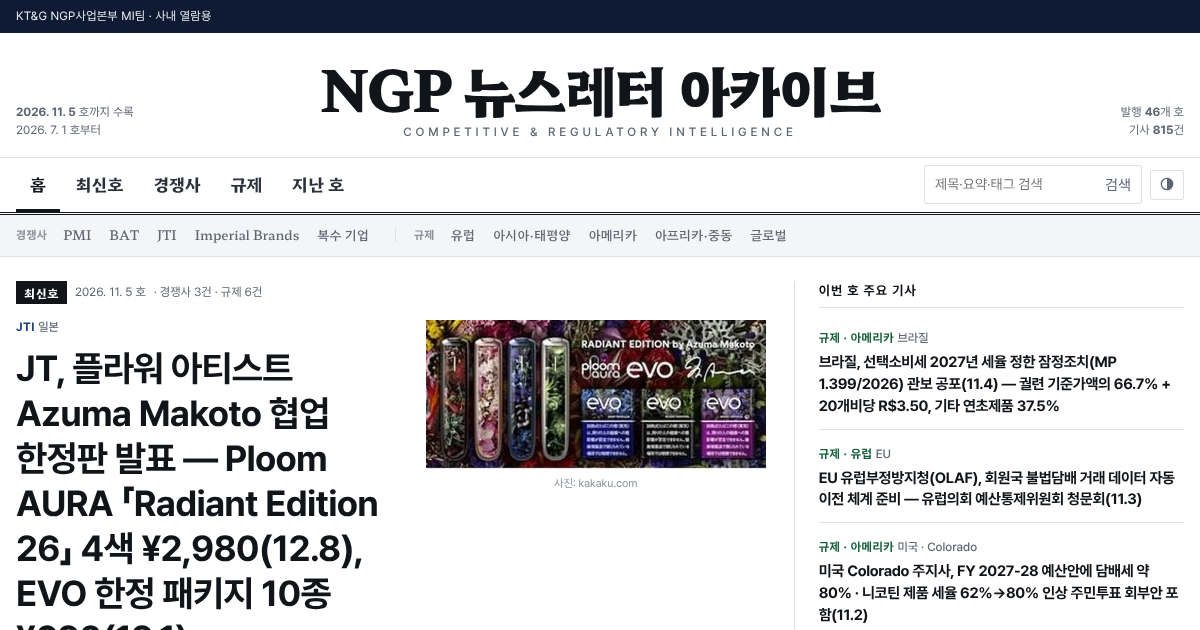
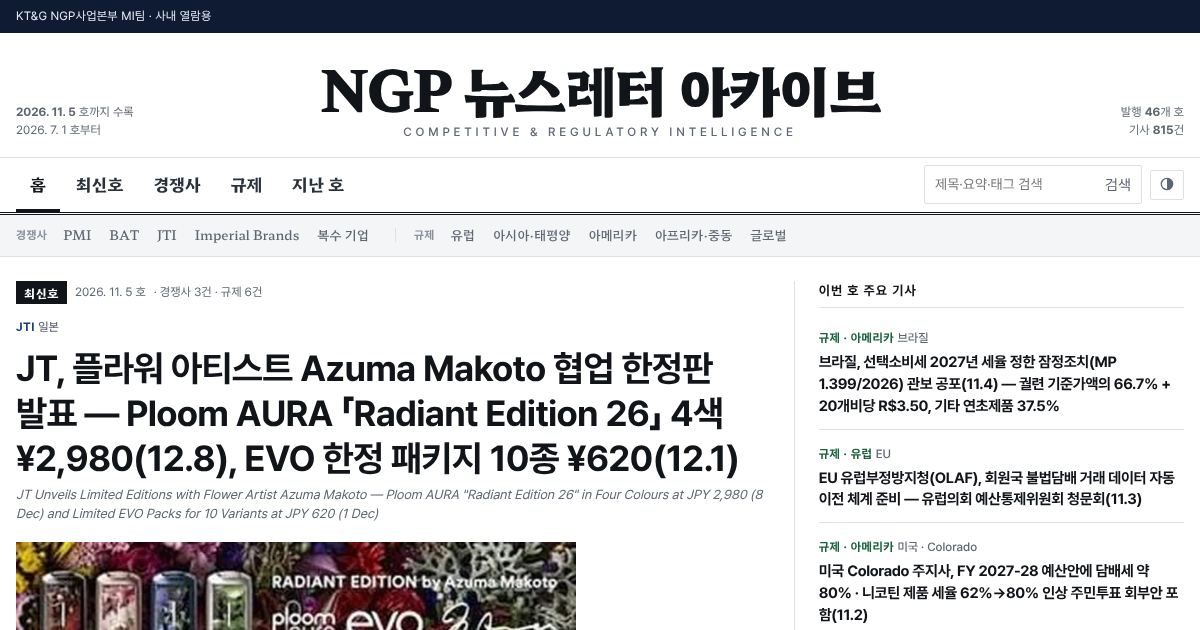
헤드라인 사진을 제목 아래 · 요약 위로 배치 (누적 815건)
Claude-Session: https://claude.ai/code/session_01BHcHoJshEUdRr4puGkB5fe

Changed region(s): [[0.0, 0.4825, 0.6475, 1.0]]

diff --git a/index.html b/index.html
@@ -186,14 +186,12 @@ mark{background:var(--hl);color:inherit;padding:0 1px}
 .lead .side{padding-left:24px}
 .lead .issue-tag{font-size:12px;color:var(--muted);margin-bottom:10px;display:flex;gap:8px;align-items:center;flex-wrap:wrap}
 .lead .issue-tag b{font-family:var(--disp);background:var(--ink);color:var(--bg);padding:2px 8px;font-weight:700;letter-spacing:.04em}
-.leadrow{display:flex;gap:28px;align-items:flex-start}
-.leadtxt{flex:1 1 auto;min-width:0}
-.fig{flex:0 0 340px;width:340px;margin:6px 0 0;text-align:center}
-.fig img{display:block;width:100%;max-height:320px;object-fit:contain;margin:0 auto}
+.fig{display:block;max-width:560px;margin:18px 0 4px;text-align:left}
+.fig img{display:block;width:100%;max-height:340px;object-fit:contain;object-position:left center}
 .fig span{display:block;font-size:11px;color:var(--faint);margin-top:6px}
 .lead .main::after{content:"";display:block;clear:both}
 .thumb{float:right;width:64px;height:64px;object-fit:contain;margin:2px 0 6px 12px}
-@media (max-width:760px){.leadrow{flex-direction:column-reverse;gap:14px}.fig{flex:none;width:100%;max-width:420px;margin:0 auto}}
+@media (max-width:760px){.fig{max-width:100%}}
 .slist li::after,.lead .sub>div::after{content:"";display:block;clear:both}
 .lead .main .hd{font-size:clamp(24px,3.2vw,36px);line-height:1.25;margin:8px 0 0;word-break:keep-all}
 .lead .main .dek{font-size:17px;line-height:1.7;margin-top:14px}
@@ -403,14 +401,11 @@ function home(){
   var h='';
   h+='<section class="lead"><div class="main">';
   h+='<div class="issue-tag"><b>최신호</b><a href="'+ilink(last)+'">'+fmtD(last)+' 호</a><span>· 경쟁사 '+cc.c+'건 · 규제 '+cc.g+'건</span></div>';
-  h+='<div class="leadrow"><div class="leadtxt">';
   h+=kicker(lead)+'<h2 class="hd">'+alink(lead,esc(lead.title))+'</h2>';
   if(lead.title_en) h+='<div class="en">'+esc(lead.title_en)+'</div>';
+  if(lead.img) h+='<a class="fig" href="'+pdfUrl(lead.date)+'" target="_blank" rel="noopener"><img src="'+lead.img+'" alt="'+esc(lead.title)+'">'+(lead.credit?'<span>사진: '+esc(lead.credit)+'</span>':'')+'</a>';
   if(lead.summary) h+='<p class="dek">'+esc(lead.summary)+'</p>';
   h+='<div class="meta"><span>'+esc((lead.source||[]).join(' · '))+'</span><a href="'+pdfUrl(last)+'" target="_blank" rel="noopener" class="iss">발행본 PDF ↗</a></div>';
-  h+='</div>';
-  if(lead.img) h+='<a class="fig" href="'+pdfUrl(lead.date)+'" target="_blank" rel="noopener"><img src="'+lead.img+'" alt="'+esc(lead.title)+'">'+(lead.credit?'<span>사진: '+esc(lead.credit)+'</span>':'')+'</a>';
-  h+='</div>';
   h+='<div class="sub">'+subs.map(function(r){return '<div>'+thumb(r)+kicker(r)+'<h3 class="hd">'+alink(r,esc(r.title))+'</h3>'+(r.summary?'<p class="dek">'+esc(r.summary)+'</p>':'')+'</div>'}).join('')+'</div>';
   h+='</div><aside class="side"><h3>'+esc(sideTitle)+'</h3><ul class="slist">';
   h+=sideItems.map(function(r){return '<li>'+thumb(r)+kicker(r)+'<div class="hd">'+alink(r,esc(r.title))+'</div></li>'}).join('');
